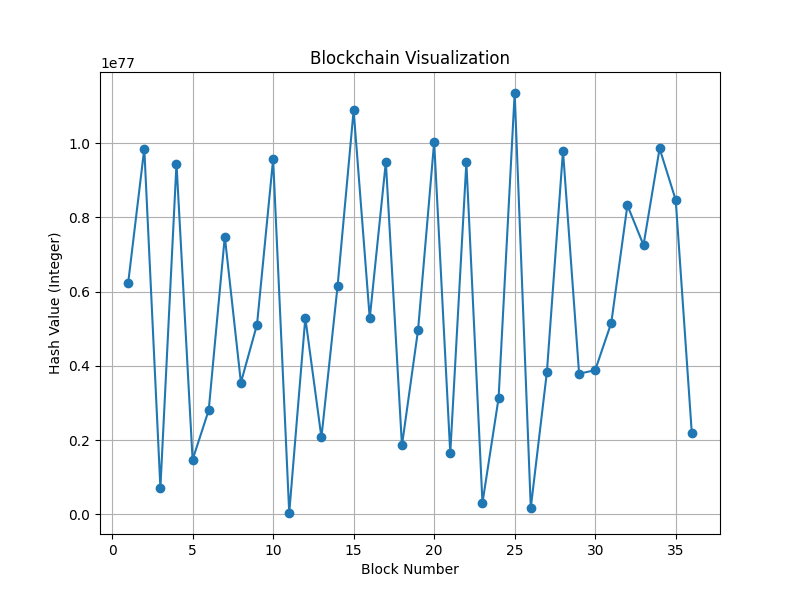
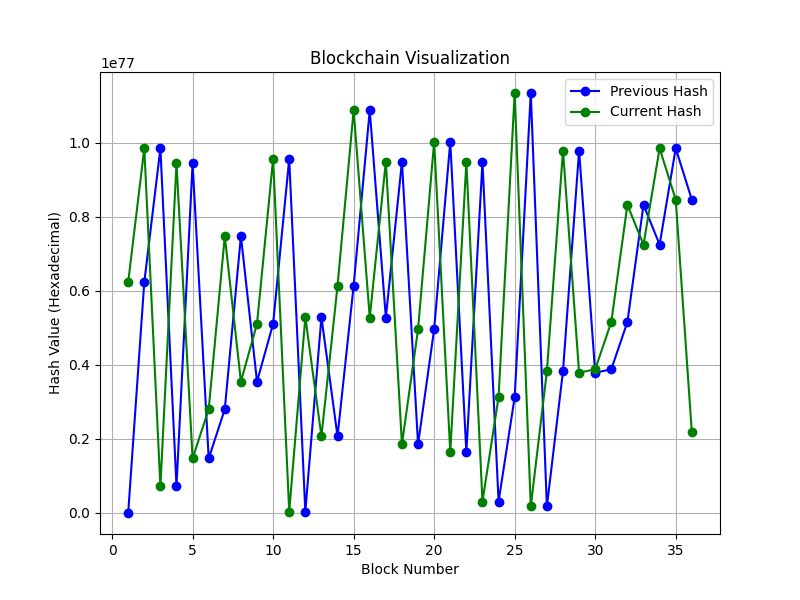
Ajustes explicacion Grafica

Changed region(s): [[0.0625, 0.15, 0.875, 0.87], [0.7188, 0.12, 0.875, 0.21]]

diff --git a/app/app.py b/app/app.py
@@ -102,10 +102,23 @@ def registarArchivo():
 
         # Crear un gráfico para visualizar la cadena de bloques
         plt.figure(figsize=(8, 6))
-        plt.plot(range(1, len(blockchain.chain) + 1), [int(block.hash, 16) for block in blockchain.chain], marker='o')
+
+        # Extraer datos para la leyenda
+        block_numbers = range(1, len(blockchain.chain) + 1)
+        previous_hashes = [block.prev_hash for block in blockchain.chain]
+        current_hashes = [block.hash for block in blockchain.chain]
+
+        # Graficar líneas con leyendas
+        plt.plot(block_numbers, [int(hash, 16) for hash in previous_hashes], marker='o', linestyle='-', label='Previous Hash', color='blue')
+        plt.plot(block_numbers, [int(hash, 16) for hash in current_hashes], marker='o', linestyle='-', label='Current Hash', color='green')
+
+        # Configurar leyendas
+        plt.legend()
+
+        # Configurar el resto del gráfico
         plt.title('Blockchain Visualization')
         plt.xlabel('Block Number')
-        plt.ylabel('Hash Value (Integer)')
+        plt.ylabel('Hash Value (Hexadecimal)')
         plt.grid(True)
 
         # Guardar el gráfico en un archivo
@@ -113,8 +126,33 @@ def registarArchivo():
         plt.savefig(graph_path)
         plt.close()
 
+        # Texto explicativo
+        explicacion_html = """
+            <div id="explanation">
+                <h2>Entendiendo la Gráfica:</h2>
+                <p>
+                    Esta gráfica representa la evolución de una cadena de bloques, un tipo especial de registro digital.
+                    Cada punto en la línea vertical corresponde a un bloque en la cadena. Los bloques están conectados entre sí
+                    mediante la línea azul, indicando la relación cronológica y la seguridad de la cadena.
+                </p>
+                <p>
+                    Los valores hexadecimales en el eje y son las "firmas" únicas (hash) de cada bloque. Estas firmas garantizan
+                    la integridad de la información dentro del bloque y aseguran que ningún bloque se altere sin que se note.
+                </p>
+                <p>
+                    Al observar la gráfica, puedes notar cómo la cadena de bloques mantiene una estructura continua, y cualquier cambio
+                    en un bloque afectaría a todos los bloques subsiguientes. Esto ilustra la resistencia a la manipulación de la cadena.
+                </p>
+                <p>
+                    En resumen, la cadena de bloques proporciona una forma segura y transparente de almacenar información, donde cada
+                    bloque contribuye a la seguridad general de la cadena.
+                </p>
+            </div>
+        """
+
+
         # Mostrar la tabla y el gráfico en la página web
-        return f"{Encabezado}{concatenar}{PiedePagina}<img src='/static/graph.png' alt='Blockchain Visualization'>"
+        return f"{Encabezado}{concatenar}{PiedePagina}<img src='/static/graph.png' alt='Blockchain Visualization'>{explicacion_html}"
 
     return render_template('index.html')
 
